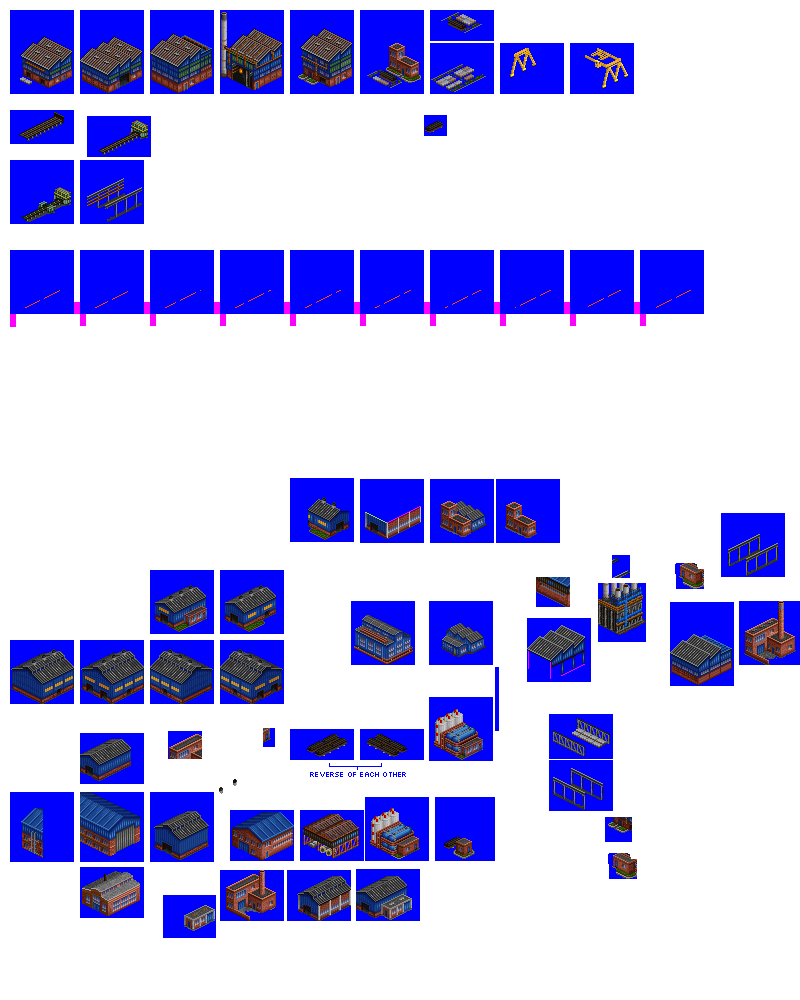
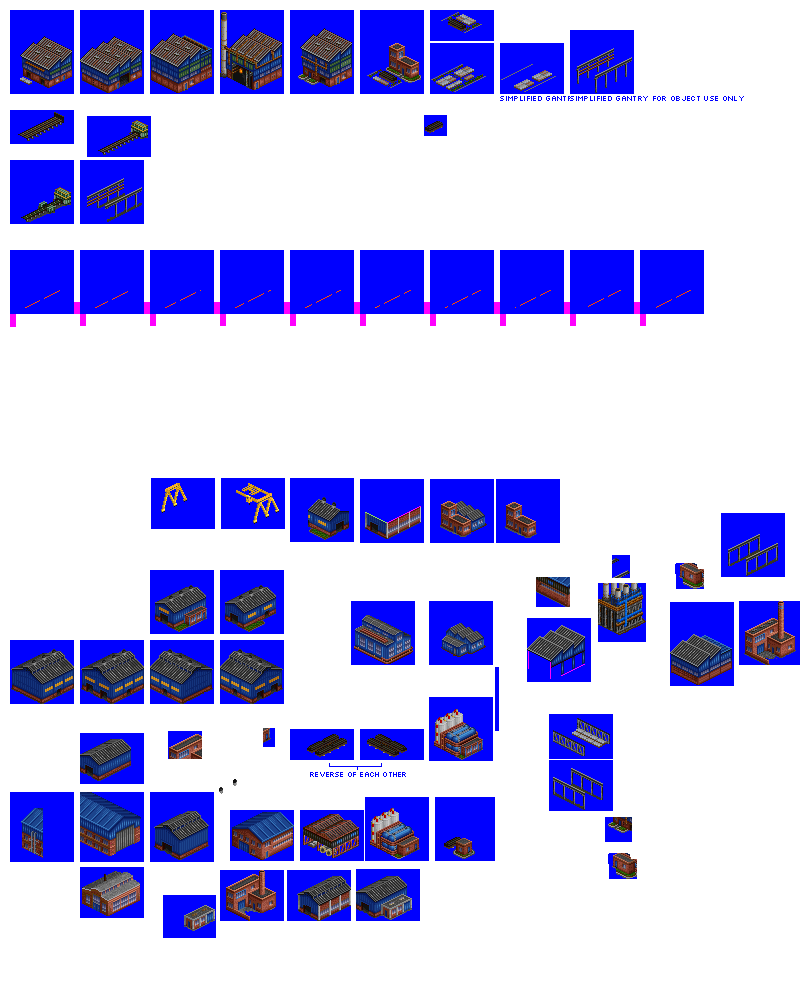
Change: add objects to Bar and Section Mill

Changed region(s): [[0.1875, 0.465, 0.375, 0.527], [0.7188, 0.031, 0.8125, 0.093], [0.625, 0.031, 0.6875, 0.093]]

diff --git a/src/industries/bar_and_section_mill.py b/src/industries/bar_and_section_mill.py
@@ -84,8 +84,8 @@ spriteset_8 = industry.add_spriteset(
 spriteset_9 = industry.add_spriteset(
     sprites=[(500, 43, 64, 51, -31, -21)],
 )
-spriteset_10 = industry.add_spriteset(
-    sprites=[(570, 43, 64, 51, -31, -21)],
+spriteset_gantry_non_animated = industry.add_spriteset(
+    sprites=[(570, 30, 64, 64, -31, -33)],
 )
 spriteset_rolling_line_metal_animated = industry.add_spriteset(
     sprites=[
@@ -132,7 +132,7 @@ industry.add_spritelayout(
     ground_overlay=spriteset_ground_overlay,
     building_sprites=[spriteset_1],
     fences=[],
-    # add_to_object_num=1,
+    add_to_object_num=1,
 )
 industry.add_spritelayout(
     id="bar_and_section_mill_spritelayout_shed_sw_ne_large_door",
@@ -141,7 +141,7 @@ industry.add_spritelayout(
     ground_overlay=spriteset_ground_overlay,
     building_sprites=[spriteset_2],
     fences=[],
-    # add_to_object_num=1,
+    add_to_object_num=2,
 )
 industry.add_spritelayout(
     id="bar_and_section_mill_spritelayout_shed_sw_ne_tall_1",
@@ -150,7 +150,7 @@ industry.add_spritelayout(
     ground_overlay=spriteset_ground_overlay,
     building_sprites=[spriteset_3],
     fences=[],
-    ##add_to_object_num=2,
+    add_to_object_num=3,
 )
 industry.add_spritelayout(
     id="bar_and_section_mill_spritelayout_shed_sw_ne_tall_2",
@@ -160,7 +160,7 @@ industry.add_spritelayout(
     building_sprites=[spriteset_4],
     smoke_sprites=[sprite_smoke_1],
     fences=[],
-    ##add_to_object_num=2,
+    add_to_object_num=4,
 )
 industry.add_spritelayout(
     id="bar_and_section_mill_spritelayout_shed_sw_ne_tall_3",
@@ -169,7 +169,7 @@ industry.add_spritelayout(
     ground_overlay=spriteset_ground_overlay,
     building_sprites=[spriteset_5],
     fences=["nw", "ne", "se", "sw"],
-    ##add_to_object_num=2,
+    add_to_object_num=5,
 )
 industry.add_spritelayout(
     id="bar_and_section_mill_spritelayout_offices",
@@ -178,7 +178,7 @@ industry.add_spritelayout(
     ground_overlay=spriteset_ground_overlay,
     building_sprites=[spriteset_6],
     fences=["nw", "ne", "se", "sw"],
-    # add_to_object_num=3,
+    add_to_object_num=6,
 )
 industry.add_spritelayout(
     id="bar_and_section_mill_spritelayout_steel_1",
@@ -187,7 +187,7 @@ industry.add_spritelayout(
     ground_overlay=spriteset_ground_overlay,
     building_sprites=[spriteset_7],
     fences=["nw", "ne", "sw", "se"],
-    # add_to_object_num=7,
+    add_to_object_num=7,
 )
 industry.add_spritelayout(
     id="bar_and_section_mill_spritelayout_steel_2",
@@ -196,16 +196,16 @@ industry.add_spritelayout(
     ground_overlay=spriteset_ground_overlay,
     building_sprites=[spriteset_8],
     fences=["nw", "ne", "se", "sw"],
-    # add_to_object_num=5,
+    add_to_object_num=8,
 )
 industry.add_spritelayout(
-    id="bar_and_section_mill_spritelayout_gantry_1",
+    id="bar_and_section_mill_spritelayout_gantry_non_animated_1",
     tile="bar_and_section_mill_tile_1",
     ground_sprite=spriteset_ground,
     ground_overlay=spriteset_ground_overlay,
-    building_sprites=[spriteset_8],
+    building_sprites=[spriteset_9, spriteset_gantry_non_animated],
     fences=["nw", "ne", "se", "sw"],
-    # add_to_object_num=5,
+    add_to_object_num=9,
 )
 industry.add_spritelayout(
     id="bar_and_section_mill_spritelayout_sw_ne_rolling_line",
@@ -218,7 +218,8 @@ industry.add_spritelayout(
         spriteset_rolling_line_roof_animated,
     ],
     fences=[],
-    # add_to_object_num=6,
+    # no animated object; fails on mismatched spritesets, TMWFTLB as of August 2023
+    #add_to_object_num=10,
 )
 
 # this industry needs outpost layout as there are lots of cargos
